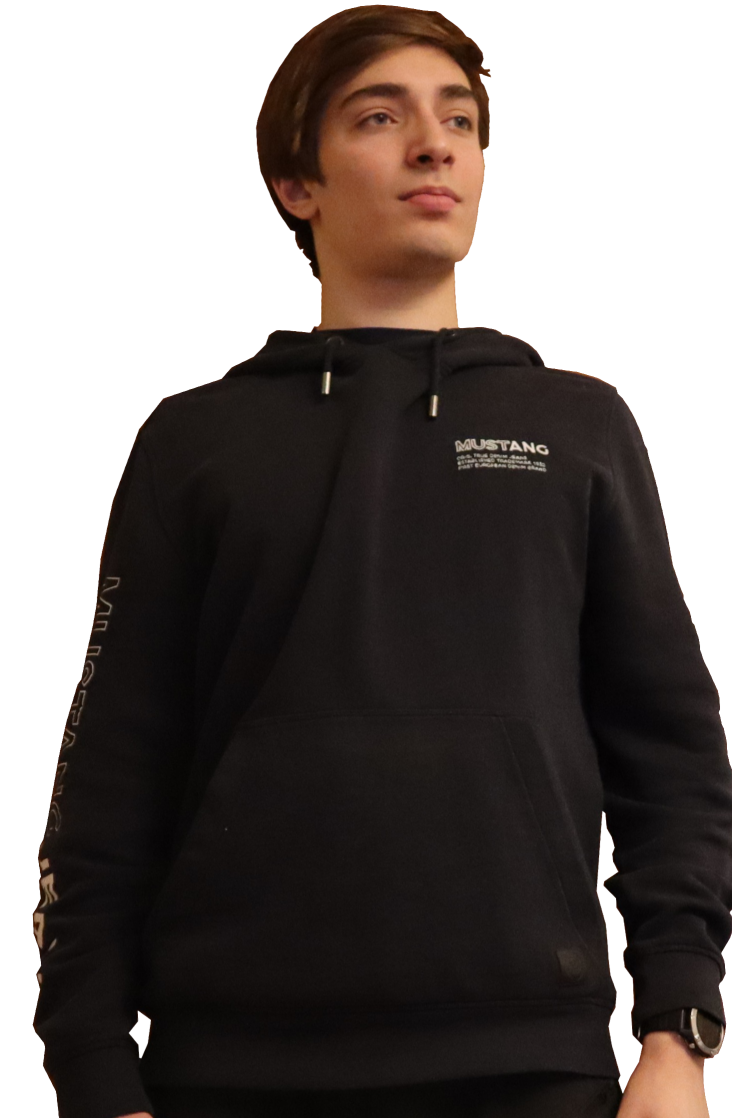
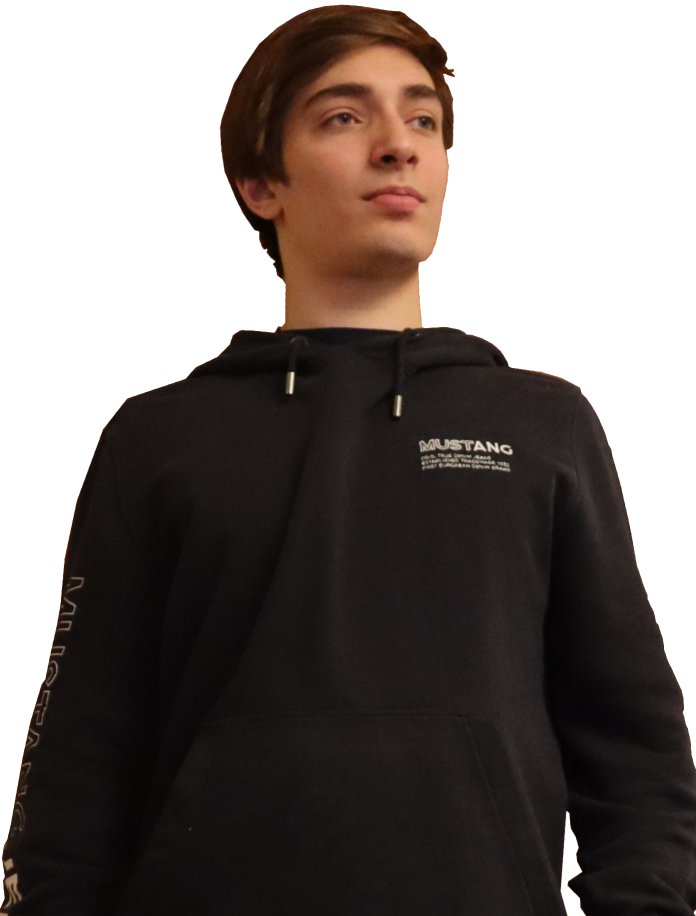
Changed hero size

diff --git a/frontend/components/Sec/SecHero.vue b/frontend/components/Sec/SecHero.vue
@@ -138,9 +138,9 @@
 .hero {
     position: absolute;
     right: -50px;
-    bottom: -160px;
+    bottom: -50px;
 
-    width: 30rem;
+    width: 29rem;
 
     margin-top: auto;
 
